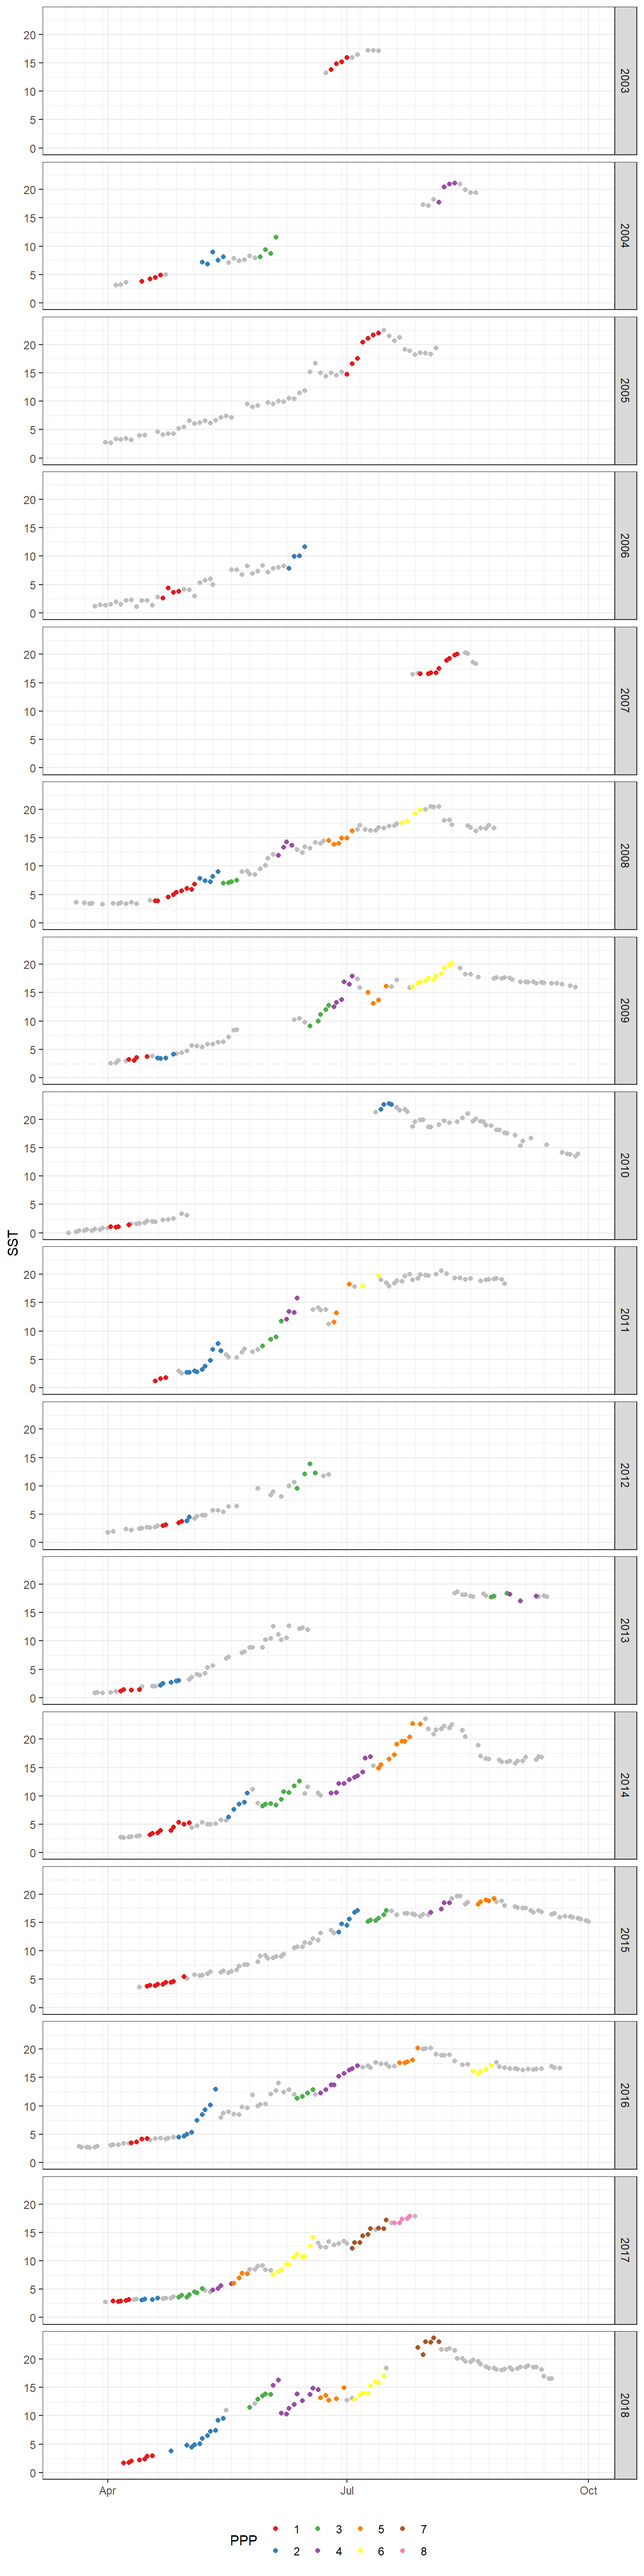
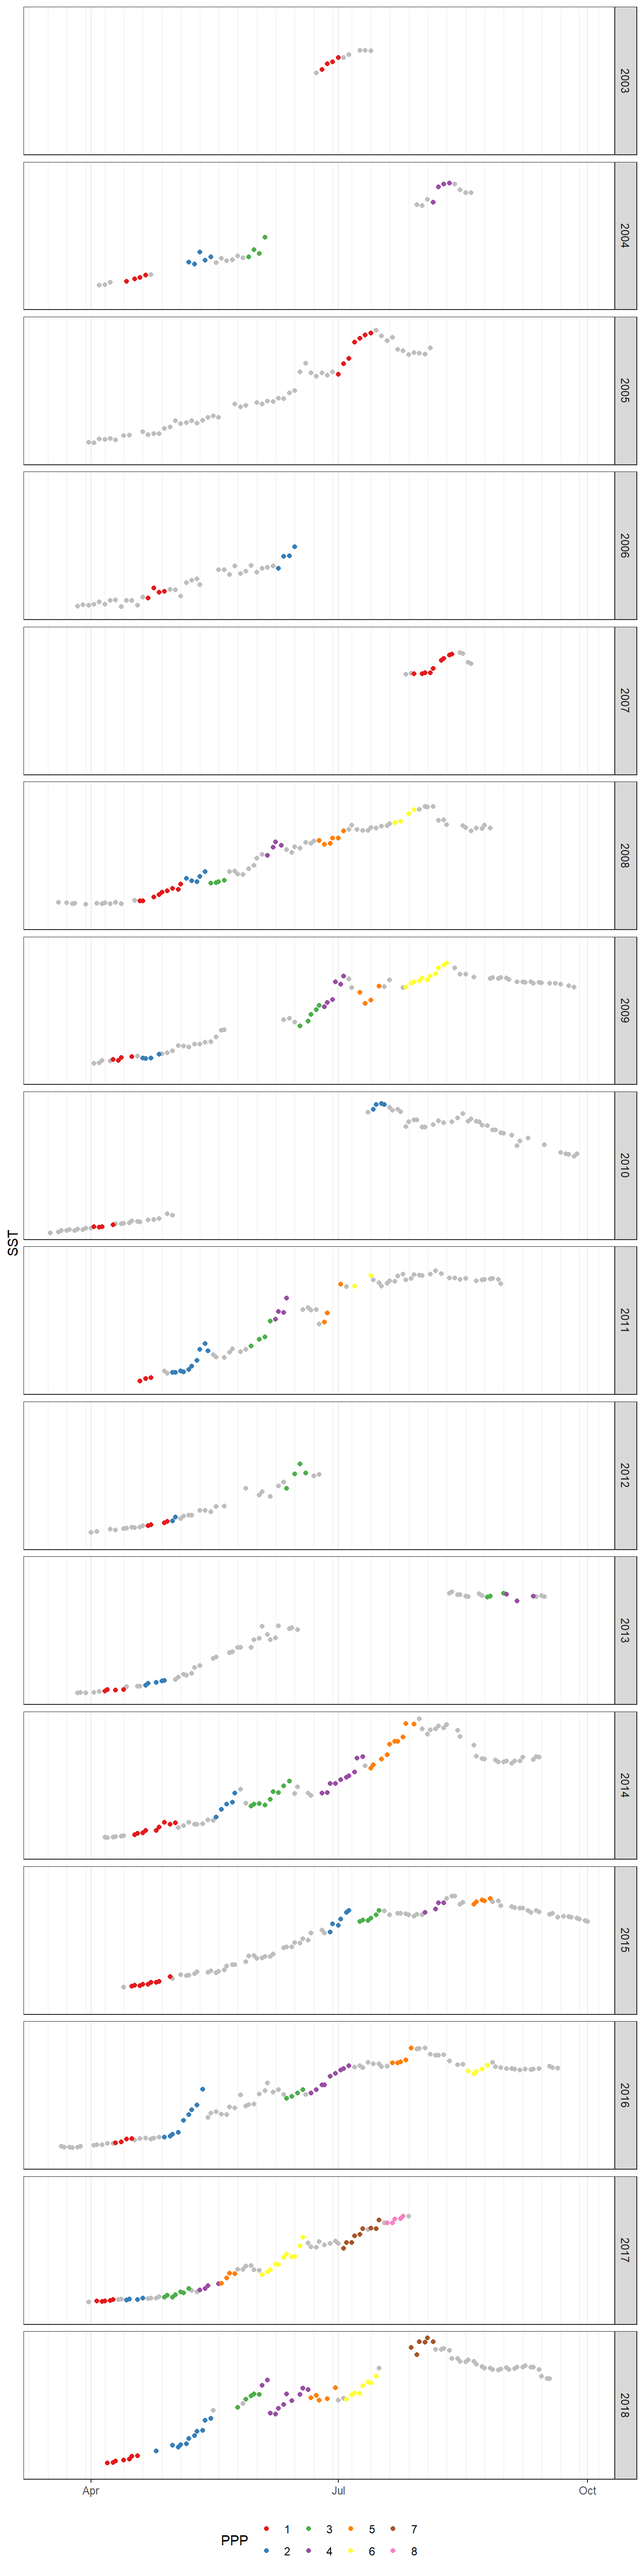
Build site.

diff --git a/docs/CT.html b/docs/CT.html
@@ -542,16 +542,16 @@ This reproducible <a href="http://rmarkdown.rstudio.com">R Markdown</a> analysis
 <div class="panel panel-default">
 <div class="panel-heading">
 <p class="panel-title">
-<a data-toggle="collapse" data-parent="#workflowr-checks" href="#strongRepositoryversionstrongahrefhttpsgithubcomjensdanielmuellerBalticProductivitytreee801aae9a7a8a3ae40e6b0096bfa387f037c39edtargetblanke801aaea"> <span class="glyphicon glyphicon-ok text-success" aria-hidden="true"></span> <strong>Repository version:</strong> <a href="https://github.com/jens-daniel-mueller/Baltic_Productivity/tree/e801aae9a7a8a3ae40e6b0096bfa387f037c39ed" target="_blank">e801aae</a> </a>
+<a data-toggle="collapse" data-parent="#workflowr-checks" href="#strongRepositoryversionstrongahrefhttpsgithubcomjensdanielmuellerBalticProductivitytreef2a95e8482efdb4f93f29fa58d5667a5e73135c2targetblankf2a95e8a"> <span class="glyphicon glyphicon-ok text-success" aria-hidden="true"></span> <strong>Repository version:</strong> <a href="https://github.com/jens-daniel-mueller/Baltic_Productivity/tree/f2a95e8482efdb4f93f29fa58d5667a5e73135c2" target="_blank">f2a95e8</a> </a>
 </p>
 </div>
[2 lines of base64/hex data omitted]
 <div class="panel-body">
 <p>
 Great! You are using Git for version control. Tracking code development and connecting the code version to the results is critical for reproducibility.
 </p>
 <p>
-The results in this page were generated with repository version <a href="https://github.com/jens-daniel-mueller/Baltic_Productivity/tree/e801aae9a7a8a3ae40e6b0096bfa387f037c39ed" target="_blank">e801aae</a>. See the <em>Past versions</em> tab to see a history of the changes made to the R Markdown and HTML files.
+The results in this page were generated with repository version <a href="https://github.com/jens-daniel-mueller/Baltic_Productivity/tree/f2a95e8482efdb4f93f29fa58d5667a5e73135c2" target="_blank">f2a95e8</a>. See the <em>Past versions</em> tab to see a history of the changes made to the R Markdown and HTML files.
 </p>
 <p>
 Note that you need to be careful to ensure that all relevant files for the analysis have been committed to Git prior to generating the results (you can use <code>wflow_publish</code> or <code>wflow_git_commit</code>). workflowr only checks the R Markdown file, but you know if there are other scripts or data files that it depends on. Below is the status of the Git repository when the results were generated:
@@ -604,6 +604,40 @@ Message
 </tr>
 </thead>
 <tbody>
+<tr>
+<td>
+Rmd
+</td>
+<td>
+<a href="https://github.com/jens-daniel-mueller/Baltic_Productivity/blob/f2a95e8482efdb4f93f29fa58d5667a5e73135c2/analysis/CT.Rmd" target="_blank">f2a95e8</a>
+</td>
+<td>
+jens-daniel-mueller
+</td>
+<td>
+2020-04-17
+</td>
+<td>
+CT y_axis grid 20
+</td>
+</tr>
+<tr>
+<td>
+html
+</td>
+<td>
+<a href="https://rawcdn.githack.com/jens-daniel-mueller/Baltic_Productivity/f0231f7b7ba9198275c79a08517ad92aa5763582/docs/CT.html" target="_blank">f0231f7</a>
+</td>
+<td>
+jens-daniel-mueller
+</td>
+<td>
+2020-04-17
+</td>
+<td>
+Build site.
+</td>
+</tr>
 <tr>
 <td>
 Rmd
@@ -2091,6 +2125,8 @@ ggplot()+
 <pre class="r"><code>ggplot()+
   geom_point(data = fm_ppp_dup, aes(as.Date(yday(date)), CT), color = &quot;grey&quot;)+
   geom_point(data = fm_ppp_final, aes(as.Date(yday(date)), CT, color = as.factor(ppp)))+
+  scale_y_continuous(breaks = seq(1000,2000,100),
+                     minor_breaks = seq(1000,2000,20))+
   scale_x_date(date_minor_breaks = &quot;week&quot;,
                date_labels = &quot;%b&quot;)+
   scale_color_brewer(palette = &quot;Set1&quot;, name=&quot;PPP&quot;)+
@@ -2104,6 +2140,8 @@ ggplot()+
 <pre class="r"><code>ggplot()+
   geom_point(data = fm_ppp_dup, aes(as.Date(yday(date)), SST), color = &quot;grey&quot;)+
   geom_point(data = fm_ppp_final, aes(as.Date(yday(date)), SST, color = as.factor(ppp)))+
+  scale_y_continuous(breaks = seq(1000,2000,100),
+                     minor_breaks = seq(1000,2000,20))+
   scale_x_date(date_minor_breaks = &quot;week&quot;,
                date_labels = &quot;%b&quot;)+
   scale_color_brewer(palette = &quot;Set1&quot;, name=&quot;PPP&quot;)+
@@ -2168,7 +2206,7 @@ loaded via a namespace (and not attached):
 [49] cli_2.0.2          readxl_1.3.1       yaml_2.2.1         crayon_1.3.4      
 [53] farver_2.0.3       RColorBrewer_1.1-2 later_1.0.0        promises_1.1.0    
 [57] htmlwidgets_1.5.1  fs_1.4.0           vctrs_0.2.4        glue_1.3.2        
-[61] evaluate_0.14      labeling_0.3       reprex_0.3.0       stringi_1.4.6     </code></pre>
+[61] evaluate_0.14      reprex_0.3.0       stringi_1.4.6     </code></pre>
 </div>
 </div>
 
